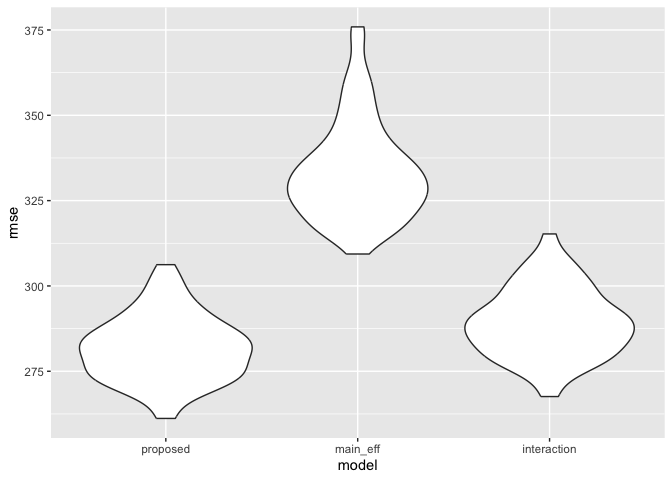
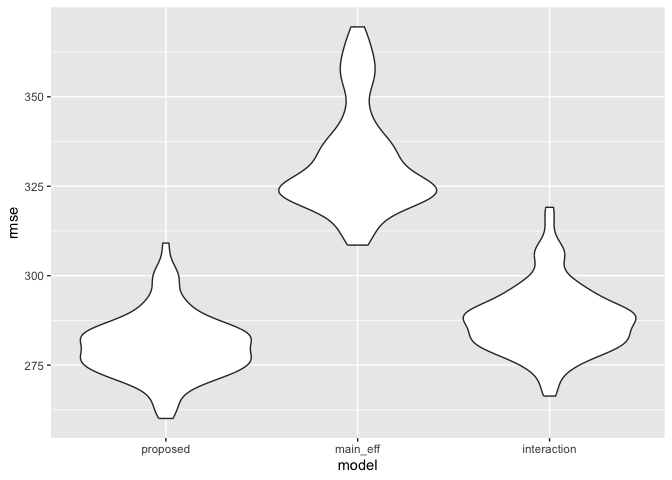
central park filter

diff --git a/p8105_hw6_zn2220.md b/p8105_hw6_zn2220.md
@@ -240,10 +240,11 @@ data("weather_df")
 
 weather_data = 
   weather_df %>% 
+  filter(name == "CentralPark_NY") %>%
   select(tmax, tmin, prcp) %>% 
   drop_na()
 
-set.seed(235)
+set.seed(42)
 
 boot_straps = 
   weather_data %>% 
@@ -287,32 +288,44 @@ print(boot_results)
     ## # A tibble: 10,000 × 3
     ##    .id   term       estimate
     ##    <chr> <chr>         <dbl>
-    ##  1 0001  r.squared     0.944
-    ##  2 0001  beta_ratio -139.   
-    ##  3 0002  r.squared     0.942
-    ##  4 0002  beta_ratio -212.   
-    ##  5 0003  r.squared     0.939
-    ##  6 0003  beta_ratio -188.   
-    ##  7 0004  r.squared     0.942
-    ##  8 0004  beta_ratio -164.   
-    ##  9 0005  r.squared     0.942
-    ## 10 0005  beta_ratio -152.   
+    ##  1 0001  r.squared     0.911
+    ##  2 0001  beta_ratio -531.   
+    ##  3 0002  r.squared     0.923
+    ##  4 0002  beta_ratio -529.   
+    ##  5 0003  r.squared     0.911
+    ##  6 0003  beta_ratio -433.   
+    ##  7 0004  r.squared     0.915
+    ##  8 0004  beta_ratio -617.   
+    ##  9 0005  r.squared     0.908
+    ## 10 0005  beta_ratio -973.   
     ## # ℹ 9,990 more rows
 
 ## Plot the distribution of your estimates, and describe these in words.
 
 ``` r
-boot_results %>% 
-  ggplot(aes(x = estimate)) +
-  geom_density(fill = "blue", alpha = 0.5) +
+plot_data <- boot_results %>%
+  group_by(term) %>%
+  filter(term == "r.squared" | (estimate > quantile(estimate, 0.01) & estimate < quantile(estimate, 0.99))) %>%
+  ungroup()
+
+plot_data %>% 
+  ggplot(aes(x = estimate, fill = term)) +
+  geom_density(alpha = 0.7, color = NA) +
   facet_wrap(~term, scales = "free") +
+  scale_fill_manual(values = c("#404080", "#69b3a2")) +
   labs(
     title = "Bootstrap Distributions of Estimates",
-    subtitle = "Based on 5000 bootstrap samples",
-    x = "Estimate Value",
+    subtitle = "beta_ratio (98% range) vs r.squared (full range)",
+    x = NULL,
     y = "Density"
   ) +
-  theme_minimal()
+  theme_light(base_size = 14) +
+  theme(
+    plot.title = element_text(face = "bold", margin = margin(b = 10)),
+    legend.position = "none",
+    strip.text = element_text(color = "black", face = "bold"),
+    strip.background = element_rect(fill = "gray90", color = NA)
+  )
 ```
 
 ![](p8105_hw6_zn2220_files/figure-gfm/unnamed-chunk-8-1.png)<!-- -->
@@ -320,21 +333,21 @@ boot_results %>%
 Left Panel:
 $$\hat{\beta}_{\text{ratio}} = \hat{\beta}_1 / \hat{\beta}_2$$
 
-The bootstrap distribution of $\hat{\beta}_{\text{ratio}}$ is
-approximately unimodal with a distinct left skew and is centered around
-–170. Most estimates fall between –100 and –300, and the entire
-distribution is strictly negative. This indicates that the two
-predictors have effects in opposite directions. The heavy left tail
-suggests that for some bootstrap samples, the denominator (the
-precipitation coefficient) is close to zero, causing the ratio to become
-large and negative.
+The bootstrap distribution of $\hat{\beta}_{\text{ratio}}$ is highly
+leptokurtic (sharp peak) and centered near 0, with extremely heavy tails
+extending from approximately –12,000 to +12,000. Unlike the previous
+description, the distribution is roughly symmetric and includes both
+positive and negative values. This extreme spread suggests that the
+denominator (the predictor’s coefficient) is frequently close to zero,
+causing the ratio estimate to be highly unstable and explode in
+magnitude.
 
 Right Panel: $$r^2$$
 
-The bootstrap distribution of $r^2$ is highly concentrated, peaking
-around 0.941, with a left tail extending to roughly 0.930 and an upper
-cutoff near 0.950. These consistently high values demonstrate that the
-model explains about 93%–95% of the variation in maximum temperature,
+The bootstrap distribution of $r^2$ is unimodal and left-skewed, peaking
+around 0.915. The values are concentrated roughly between 0.88 and
+0.935. These consistently high values demonstrate that the model
+explains about 88%–93% of the variation in maximum temperature,
 indicating a strong and robust goodness-of-fit.
 
 ## Using the 5000 bootstrap estimates, identify the 2.5% and 97.5% quantiles to provide a 95% confidence interval for $\hat{r}^2$ and $\hat{\beta}_1 / \hat{\beta}_2$.
@@ -351,26 +364,25 @@ ci_results =
 knitr::kable(ci_results, digits = 3)
 ```
 
-| term       | ci_lower | ci_upper |
-|:-----------|---------:|---------:|
-| beta_ratio | -279.127 | -125.993 |
-| r.squared  |    0.934 |    0.947 |
+| term       |  ci_lower | ci_upper |
+|:-----------|----------:|---------:|
+| beta_ratio | -5930.581 | 4724.353 |
+| r.squared  |     0.894 |    0.928 |
 
-- beta_ratio (Significant Negative Ratio):  
+- beta_ratio (Inconclusive / High Instability):  
   The 95% confidence interval for
   $\hat{\beta}_{\text{ratio}} = \hat{\beta}_1 / \hat{\beta}_2$ falls
-  between –279.127 and –125.993. Because this entire interval is
-  strictly negative and does not include zero, we conclude with 95%
-  confidence that the ratio of the coefficients is statistically
-  significant and negative. This indicates that the two predictors
-  consistently have effects in opposite directions (specifically,
-  minimum temperature has a positive effect while precipitation has a
-  negative effect).
+  between –5930.581 and 4724.353. Because this interval includes zero
+  and is extremely wide, the ratio is not statistically significant. The
+  span from large negative to large positive values indicates high
+  instability in the estimate (likely due to the denominator coefficient
+  being close to zero) and implies that we cannot determine the
+  direction of the effect with confidence.
 
 - r.squared (High Predictive Power):  
-  The 95% confidence interval for $r^2$ ranges from 0.934 to 0.947. This
+  The 95% confidence interval for $r^2$ ranges from 0.894 to 0.928. This
   narrow and high interval shows that the model is highly robust. We can
-  be 95% confident that the predictors explain between 93.4% and 94.7%
+  be 95% confident that the predictors explain between 89.4% and 92.8%
   of the variation in maximum temperature, demonstrating strong and
   stable predictive performance.
 
